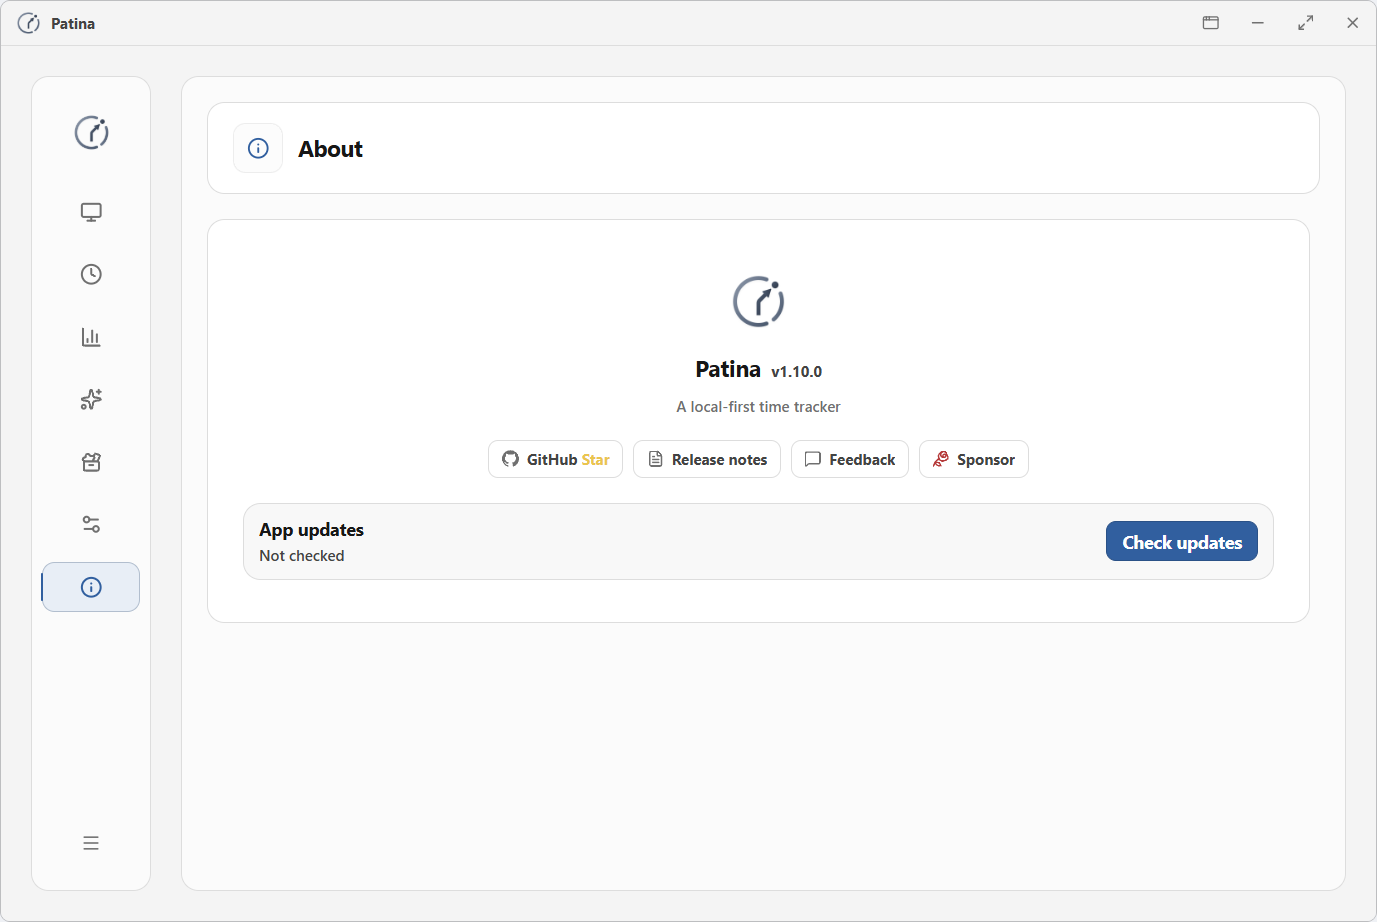
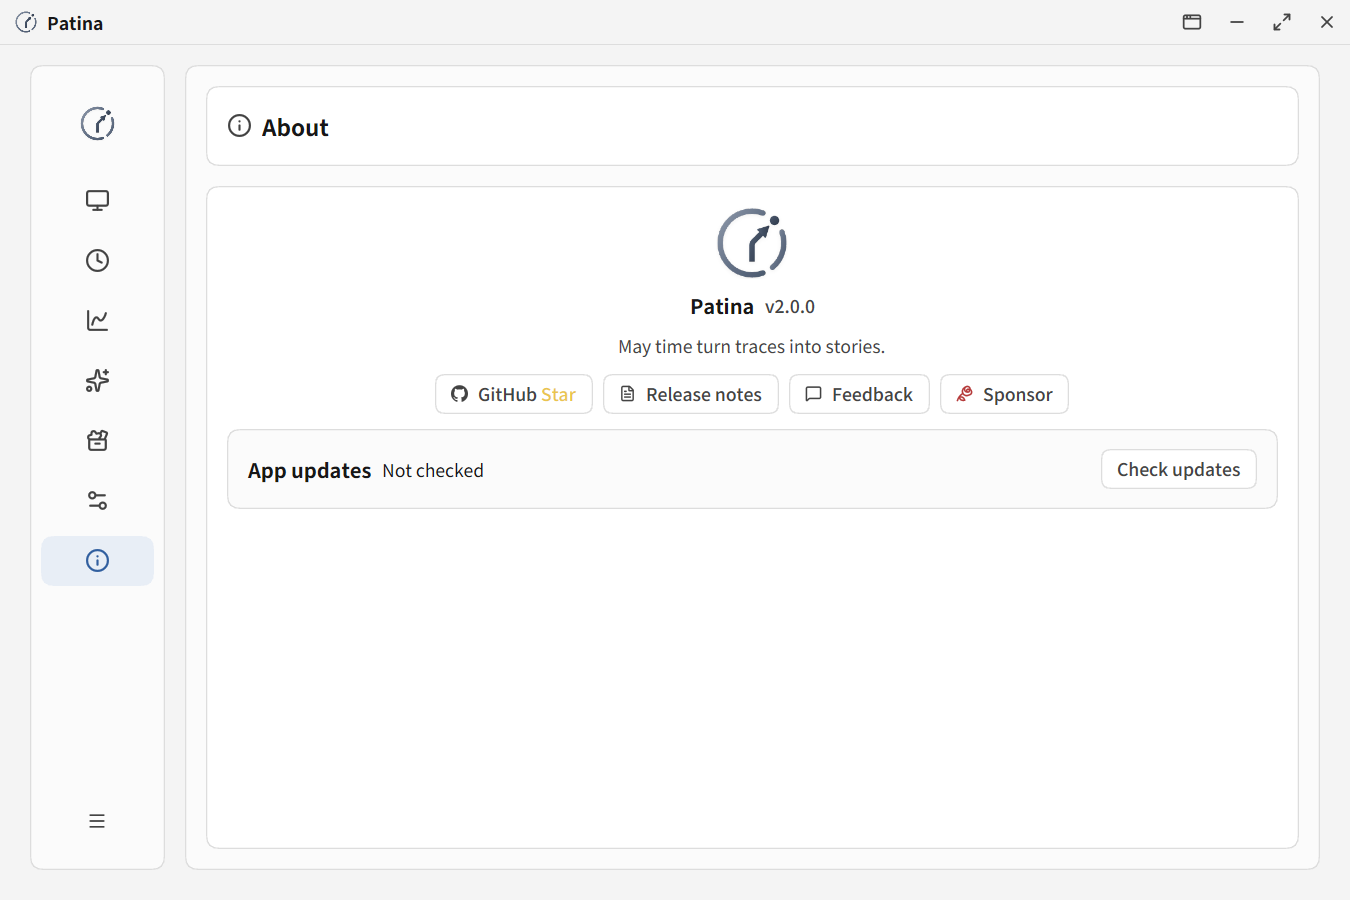
docs: update the English README and screenshots for Patina 2.0

diff --git a/README.md b/README.md
@@ -7,6 +7,7 @@ Quiet, reliable time tracking that keeps your data local.
 English · [简体中文](README.zh-CN.md)
 
 ![Platform](https://img.shields.io/badge/platform-Windows-4f6f8f)
+![GPUI framework](https://img.shields.io/badge/framework-GPUI-526889)
 ![Local first](https://img.shields.io/badge/data-local--first-5f7f68)
 [![License](https://img.shields.io/badge/license-MIT-6f647a)](LICENSE)
 [![GitHub stars](https://img.shields.io/github/stars/Ceceliaee/patina?style=social)](https://github.com/Ceceliaee/patina/stargazers)
@@ -16,13 +17,13 @@ English · [简体中文](README.zh-CN.md)
 <p align="center">
   <picture>
     <source media="(prefers-color-scheme: dark)" srcset=".github/assets/readme/hero-dark.png">
-    <img src=".github/assets/readme/hero-light.png" alt="Patina Today overview">
+    <img src=".github/assets/readme/hero-light.png" alt="Today view showing time by category, hourly activity, and the most-used apps">
   </picture>
 </p>
 
 ## Download
 
-Patina runs on Windows 10 and Windows 11.
+Patina runs on Windows 10 and 11. For a first install, choose **x64** for a 64-bit Intel or AMD PC, or **ARM64** for an ARM PC.
 
 <p align="center">
   <a href="https://github.com/Ceceliaee/patina/releases/latest">
@@ -33,7 +34,9 @@ Patina runs on Windows 10 and Windows 11.
   </a>
 </p>
 
-To see browsing time by website, install [Patina Web Sync](https://github.com/Ceceliaee/patina-web-sync) and connect it to the desktop app.
+### Browser Extension
+
+To see browsing time by website, install the [Patina Web Sync](https://github.com/Ceceliaee/patina-web-sync) browser extension and connect it to the desktop app.
 
 <p align="center">
   <a href="https://chromewebstore.google.com/detail/patina-web-sync/gimdckblhckibmeklhemgccabmbnoemd"><img src=".github/assets/store-badges/chrome-web-store.png" height="36" alt="Install Patina Web Sync from the Chrome Web Store"></a>
@@ -45,7 +48,7 @@ To see browsing time by website, install [Patina Web Sync](https://github.com/Ce
 
 - Automatically track how much time you spend in each foreground app.
 - Review your day, see where your time goes, and follow changes over time.
-- Keep activity records on your device by default. No account is required.
+- Keep activity records on your device by default. Track and review your time offline without an account.
 
 ## Core Features
 
@@ -53,6 +56,8 @@ To see browsing time by website, install [Patina Web Sync](https://github.com/Ce
 
 - Record each period of activity in the foreground app.
 - Keep tracking during videos and meetings using signals such as audio playback.
+- Keep tracking from the system tray after closing the main window.
+- The mini window shows your current activity, a timeline of the past hour, and tool timers.
 
 ### Review and Analysis
 
@@ -64,14 +69,17 @@ To see browsing time by website, install [Patina Web Sync](https://github.com/Ce
 
 - Customize display names, categories, and colors for apps and websites.
 - Combine usage time for related programs. Websites are grouped by their main domain.
-- Back up data locally or to WebDAV, schedule backups, and restore from a backup.
+- Back up data locally or to your own WebDAV server, schedule backups, and restore from a backup.
 - Import or export activity records.
 
-### Lightweight Tools
+### Plugin Store
 
-- Schedule one-time or recurring reminders.
-- Set daily limits for apps, categories, or websites and get a reminder when you reach a limit.
-- Use Pomodoro or free focus and review focus sessions and breaks by task.
+Both plugins in the store are free and come preinstalled.
+
+- **Reminder** lets you schedule one-time or recurring reminders. It can also alert you when you reach a daily limit for an app, category, or website.
+- **Focus** offers Pomodoro and Free focus modes. Review your sessions and breaks by task.
+
+Open **Tools → Plugin store** to manage plugins or install one from a local ZIP file.
 
 ## Interface Preview
 
@@ -84,13 +92,13 @@ To see browsing time by website, install [Patina Web Sync](https://github.com/Ce
     <td width="50%">
       <picture>
         <source media="(prefers-color-scheme: dark)" srcset=".github/assets/readme/history-dark.png">
-        <img src=".github/assets/readme/history-light.png" alt="History page">
+        <img src=".github/assets/readme/history-light.png" alt="History view with an activity timeline, daily summary, and app rankings">
       </picture>
     </td>
     <td width="50%">
       <picture>
         <source media="(prefers-color-scheme: dark)" srcset=".github/assets/readme/data-dark.png">
-        <img src=".github/assets/readme/data-light.png" alt="Data page">
+        <img src=".github/assets/readme/data-light.png" alt="Data view with an activity trend chart and a yearly activity heatmap">
       </picture>
     </td>
   </tr>
@@ -102,13 +110,13 @@ To see browsing time by website, install [Patina Web Sync](https://github.com/Ce
     <td width="50%">
       <picture>
         <source media="(prefers-color-scheme: dark)" srcset=".github/assets/readme/classification-dark.png">
-        <img src=".github/assets/readme/classification-light.png" alt="Classification page">
+        <img src=".github/assets/readme/classification-light.png" alt="Classification view with app cards and category selectors">
       </picture>
     </td>
     <td width="50%">
       <picture>
         <source media="(prefers-color-scheme: dark)" srcset=".github/assets/readme/tools-dark.png">
-        <img src=".github/assets/readme/tools-light.png" alt="Tools page">
+        <img src=".github/assets/readme/tools-light.png" alt="Reminder plugin in Tools showing scheduled reminders">
       </picture>
     </td>
   </tr>
@@ -120,13 +128,13 @@ To see browsing time by website, install [Patina Web Sync](https://github.com/Ce
     <td width="50%">
       <picture>
         <source media="(prefers-color-scheme: dark)" srcset=".github/assets/readme/settings-dark.png">
-        <img src=".github/assets/readme/settings-light.png" alt="Settings page">
+        <img src=".github/assets/readme/settings-light.png" alt="Settings for idle detection, pausing tracking, and appearance">
       </picture>
     </td>
     <td width="50%">
       <picture>
         <source media="(prefers-color-scheme: dark)" srcset=".github/assets/readme/about-dark.png">
-        <img src=".github/assets/readme/about-light.png" alt="About page">
+        <img src=".github/assets/readme/about-light.png" alt="About view with the Patina version, release notes, and update controls">
       </picture>
     </td>
   </tr>
@@ -134,11 +142,11 @@ To see browsing time by website, install [Patina Web Sync](https://github.com/Ce
 
 ## Reliability and Privacy
 
-- **Idle detection.** Patina distinguishes active time from periods of inactivity, screen lock, and sleep.
-- **Active time.** App rankings, category shares, and totals use time spent active.
-- **Title recording and anonymous statistics.** Choose whether to save titles for each app or website, or enable [anonymous statistics](docs/product.md#身份隐私与历史).
-- **Browsing privacy.** Web records store full URLs locally by default. Anonymous statistics retain only browsing time.
-- **History retention.** Clear activity records older than the retention period you choose.
+- **Active time.** Totals exclude time spent idle, locked, or asleep.
+- **Title recording.** Turn off title recording for individual apps or websites.
+- **URLs.** Web Sync saves full URLs by default, including paths and query parameters.
+- **[Anonymous tracking](docs/product.md#身份隐私与历史).** Enable it for an app or website to keep only the timing and duration of new activity.
+- **History cleanup.** In Settings, choose a cutoff date to delete old activity records.
 
 ## Feedback
 
@@ -160,8 +168,6 @@ Report problems or suggest improvements through GitHub Issues or the Patina QQ c
 
 ## Development and Contributing
 
-Desktop development takes place on `main`. The `tauri-maintenance` branch maintains the [current stable release](https://github.com/Ceceliaee/patina/releases/latest).
-
 ### Run from Source
 
 <a id="requirements"></a>
@@ -169,11 +175,15 @@ Desktop development takes place on `main`. The `tauri-maintenance` branch mainta
 <a id="run-in-development"></a>
 <a id="build-installer"></a>
 
-Follow the [first-run guide](CONTRIBUTING.md#34-install-dependencies) to set up the development environment and install dependencies, then run `cargo xtask dev`. The development build can run alongside the release build. Each uses its own data directory. To build a release installer, see the [release policy](docs/release.md#发布前的最低验证门槛).
+Follow the [first-run guide](CONTRIBUTING.md#34-install-dependencies) to set up the development environment and install dependencies, then run `cargo xtask dev`. The development build can run alongside the release build. Each uses its own data directory. To build a release installer, see the [Windows packaging instructions](docs/release.md#windows-安装与更新).
 
 ### Tech Stack
 
-Patina is written in Rust. It uses the Windows API for system integration and SQLite for local storage. The [architecture guide](docs/architecture.md) describes the recorder and desktop windows.
+- Desktop framework: GPUI
+- Language: Rust
+- System integration: Windows API
+- UI components: Quiet Pro
+- Local storage: SQLite
 
 ### Contributing
 
